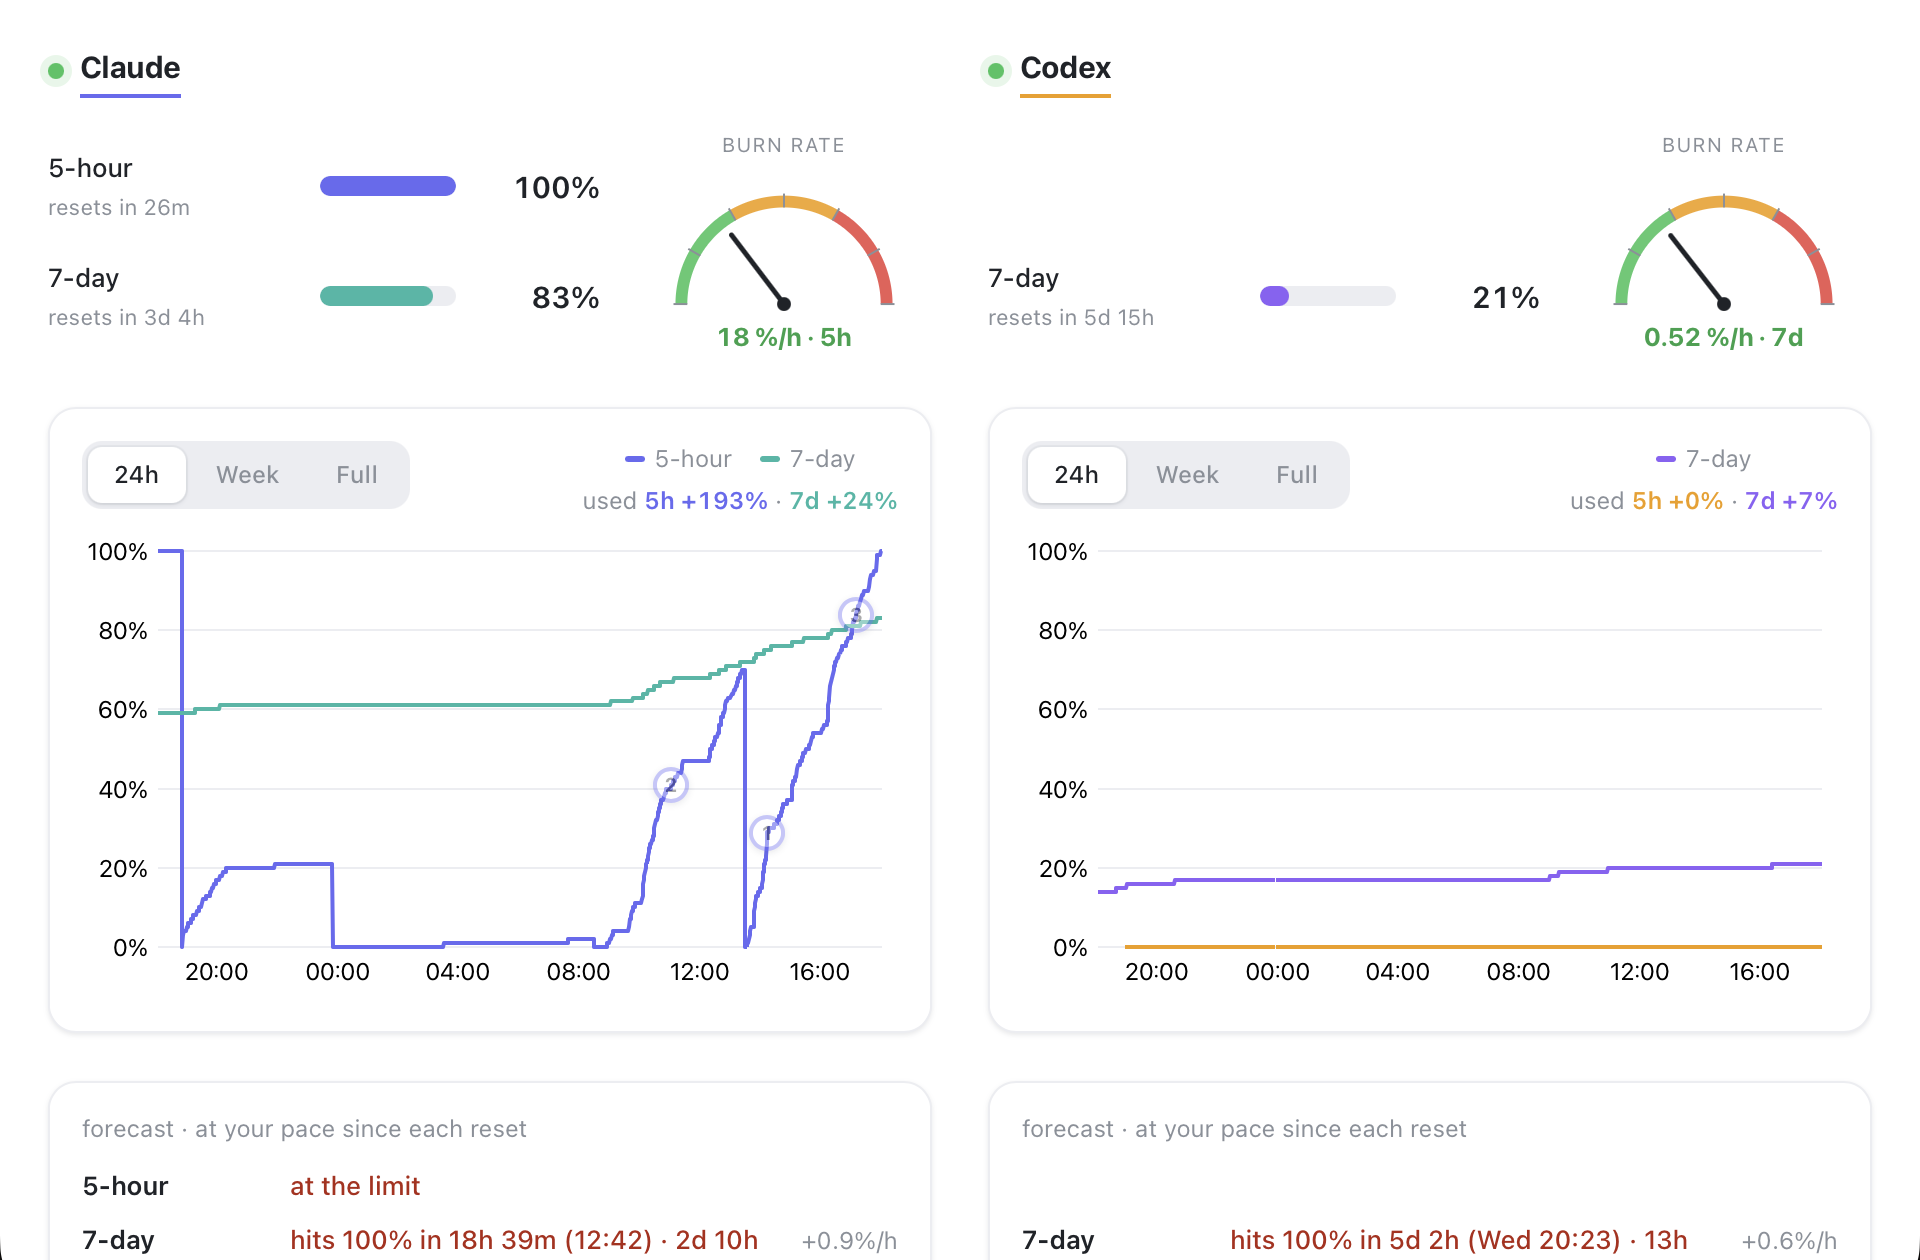
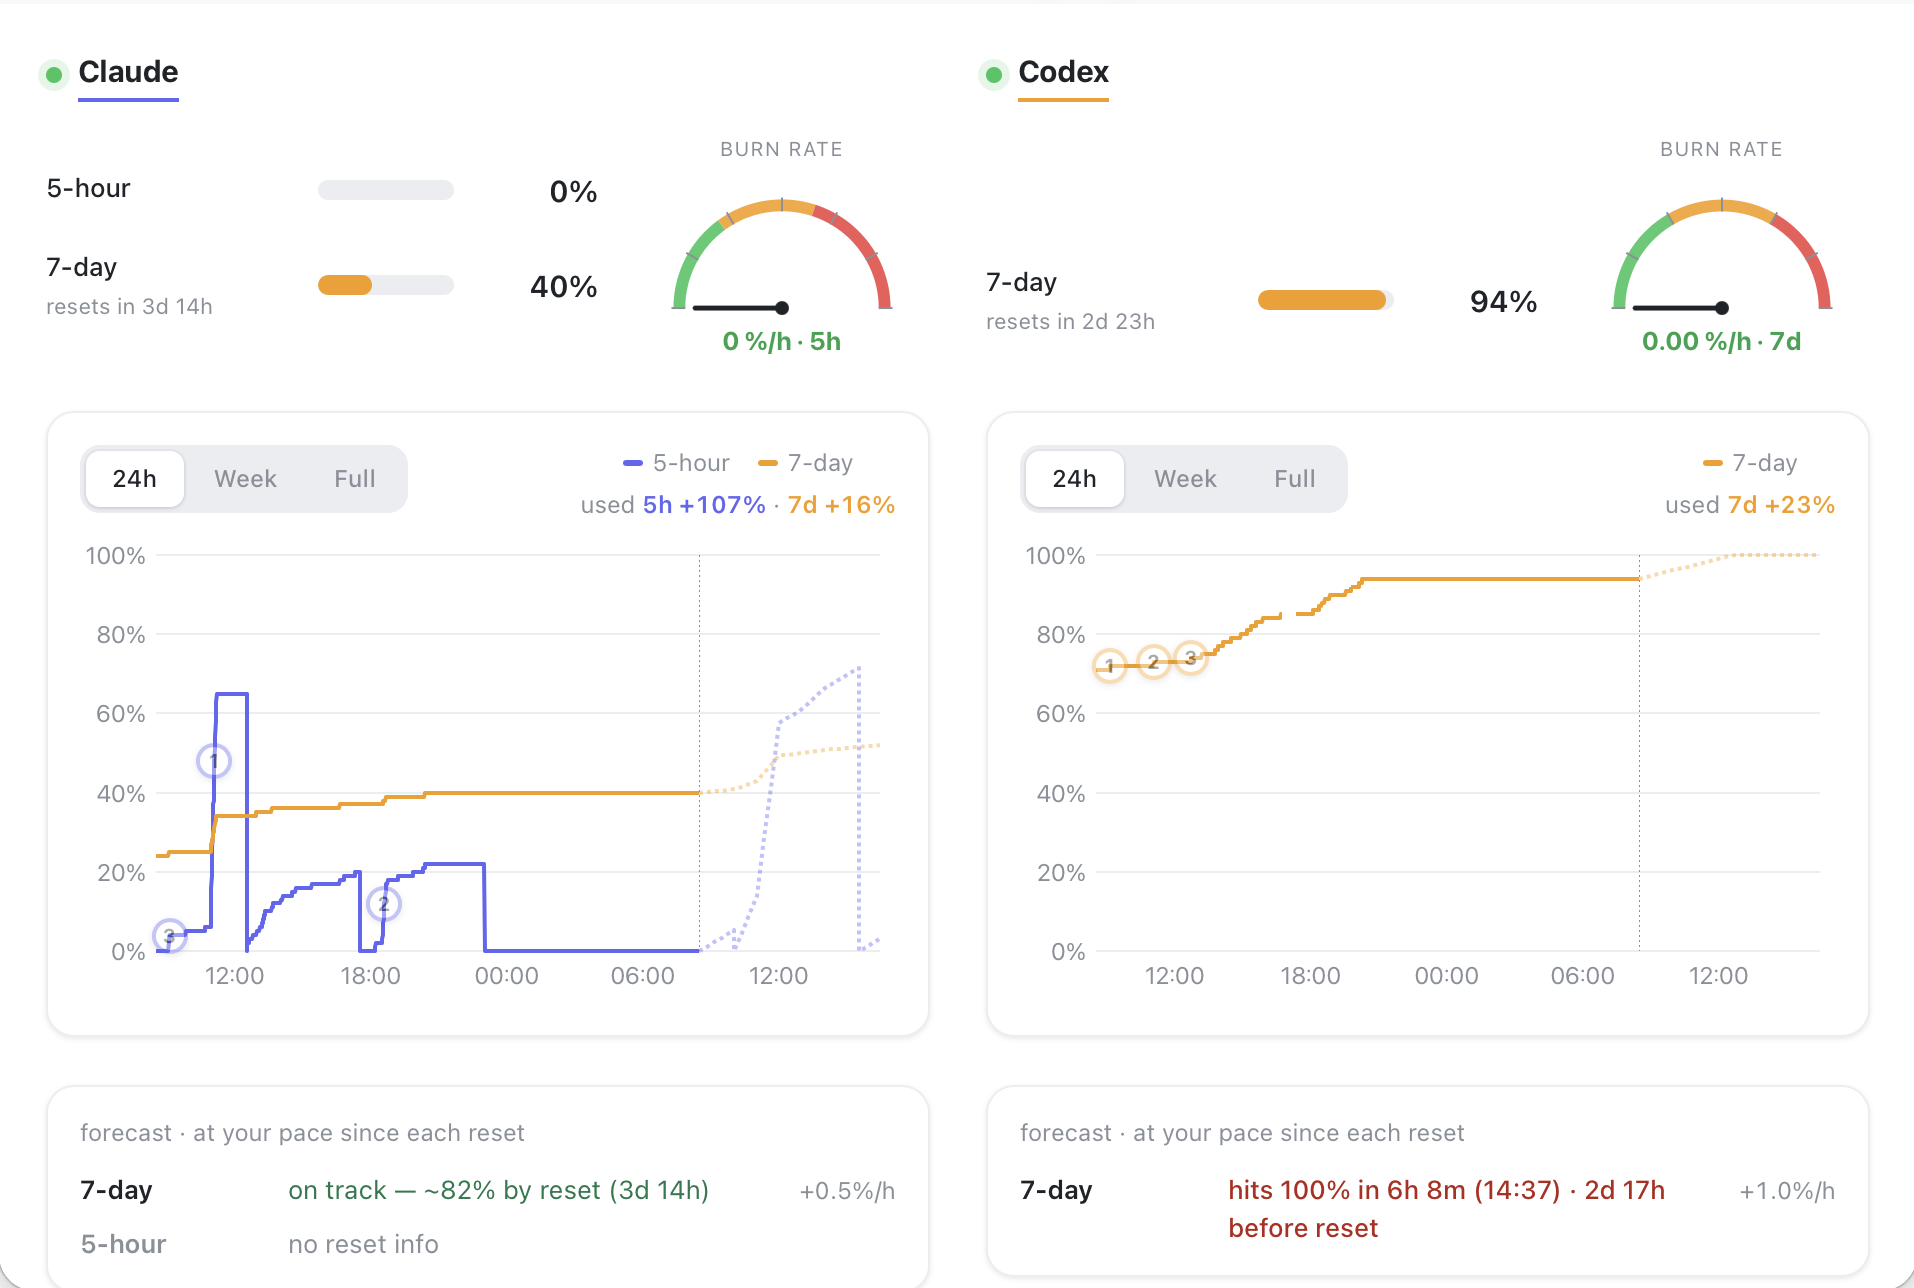
dashboard: wire authoritative resets, drop metric cards + Spark line
- Pass each series' authoritative reset (window_seconds + reset_at) into the
  chart forecast via panelResets(), so projected resets match the real cadence.
- Remove the Opus 7d / Sonnet 7d / Extra-credits (Claude) and Plan /
  Extra-credits (Codex) metric cards.
- Hide the model-specific "Spark" feature limit (usually 0%, not a real cap).
- Refresh the README dashboard screenshot.

diff --git a/static/app.js b/static/app.js
@@ -191,7 +191,7 @@ function applyRange(st) {
     while (i < ts.length && ts[i] < cutoff) i++;
     ts = ts.slice(i); a = a.slice(i); b = b.slice(i);
   }
-  st.chart.setData(withProjection(ts, a, b));
+  st.chart.setData(withProjection(ts, a, b, panelResets(st)));
 }
 
 function toSamples(ts, ys) {
@@ -204,10 +204,37 @@ function lastNonNull(arr) {
   return 0;
 }
 
+// Authoritative reset override for the predictor: { P, R } in seconds (window
+// length + a known reset instant), taken from the API's window info so the forecast
+// projects resets on the real cadence instead of guessing from noisy data drops.
+function resetOverride(iso, winSec) {
+  if (!iso || !(winSec > 0)) return null;
+  const R = new Date(iso).getTime() / 1000;
+  return Number.isFinite(R) ? { P: winSec, R } : null;
+}
+// Per-panel {a, b} reset overrides for the two charted series (a = 5-hour, b = 7-day).
+function panelResets(st) {
+  if (st === C) return {
+    a: resetOverride(C.resets.five_hour, 5 * 3600),
+    b: resetOverride(C.resets.seven_day, 7 * 86400),
+  };
+  if (st === X) {
+    const wins = (X.last && X.last.windows) || [];
+    const byLen = (target, tol) => wins.find((w) => w.window_seconds && Math.abs(w.window_seconds - target) <= tol);
+    const w5 = byLen(18000, 900), w7 = byLen(604800, 7200);
+    return {
+      a: w5 && resetOverride(w5.reset_at, w5.window_seconds),
+      b: w7 && resetOverride(w7.reset_at, w7.window_seconds),
+    };
+  }
+  return { a: null, b: null };
+}
+
 // Expand [ts, a, b] into uPlot's 5-row data with a forecast filling the rightmost
 // 25%: [ts, a, b, aProj, bProj]. Real lines go null in the future; projection lines
 // are null across history except an anchor at the last real point so they connect.
-function withProjection(ts, a, b) {
+// `rst` carries authoritative {a, b} reset overrides (see panelResets).
+function withProjection(ts, a, b, rst) {
   const n = ts.length;
   const noProj = [ts.slice(), a.slice(), b.slice(), a.map(() => null), b.map(() => null)];
   if (n < 2) return noProj;
@@ -216,14 +243,14 @@ function withProjection(ts, a, b) {
   if (!(horizon > 0)) return noProj;
   const step = Math.max(horizon / 24, 60);
   const P = Predictors[forecastModel] || Predictors.linear;
-  const projA = P.predict(toSamples(ts, a), { now, horizon, step }).points;
+  const projA = P.predict(toSamples(ts, a), { now, horizon, step, reset: rst && rst.a }).points;
   // Derive the 7-day (b) from the 5-hour (a) projection when they're linked by a
   // stable consumption ratio; otherwise forecast it independently (e.g. Codex, whose
   // 5-hour "Spark" window sits at ~0 → no ratio → falls back here).
   const ratio = consumptionRatio(a, b);
   const projB = ratio != null
     ? deriveSeries(projA, lastNonNull(b), ratio, 100)
-    : P.predict(toSamples(ts, b), { now, horizon, step }).points;
+    : P.predict(toSamples(ts, b), { now, horizon, step, reset: rst && rst.b }).points;
   // The two series can project on different time grids (e.g. one line hits resets
   // and the other doesn't), so build a shared future axis from both and resample
   // each onto it — otherwise the sparser series' projection ends up short and cut off.
@@ -435,9 +462,6 @@ function renderClaude(s) {
   $("sdFill").style.width = (s.sd ?? 0) + "%";
   $("fhPct").textContent = fmtPct(s.fh);
   $("sdPct").textContent = fmtPct(s.sd);
-  $("mOpus").textContent = fmtPct(s.so);
-  $("mSonnet").textContent = fmtPct(s.sn);
-  $("mCredits").textContent = s.credits == null ? "–" : "$" + Number(s.credits).toFixed(2);
   renderScoped(s.limits);
   renderClaudeResets();
   renderClaudeForecast();
@@ -515,11 +539,8 @@ function renderCodex(s) {
     .filter((slot) => wins.some((w) => w.label === slot.label))
     .map((slot) => `<span class="lg"><i class="swatch ${slot.cls}"></i>${slot.label}</span>`).join("");
 
-  $("cxPlan").textContent = s.plan_type || "–";
-  const cr = s.credits || {};
-  $("cxCredits").textContent = cr.unlimited ? "∞" : (cr.balance == null ? "–" : "$" + Number(cr.balance).toFixed(2));
-
-  const add = (s.additional || []).filter((a) => a.used_percent != null);
+  // Hide the model-specific "Spark" feature limit — it's usually 0% and not a real cap.
+  const add = (s.additional || []).filter((a) => a.used_percent != null && !/spark/i.test(a.label || ""));
   $("cxScoped").innerHTML = add.map((a) =>
     `<div class="row"><span>${a.label}</span><b>${Math.round(a.used_percent)}%</b></div>`).join("");
 

diff --git a/static/index.html b/static/index.html
@@ -70,12 +70,6 @@
           <div id="prog" class="prog"><div class="prog-row muted"><span class="prog-msg">gathering data…</span></div></div>
         </section>
 
-        <section class="cards">
-          <div class="card metric"><div class="k">Opus (7d)</div><div id="mOpus" class="v">–</div></div>
-          <div class="card metric"><div class="k">Sonnet (7d)</div><div id="mSonnet" class="v">–</div></div>
-          <div class="card metric"><div class="k">Extra credits used</div><div id="mCredits" class="v">–</div></div>
-        </section>
-
         <section id="scoped" class="scoped"></section>
       </section>
 
@@ -110,11 +104,6 @@
         <section class="card prog-card">
           <div class="prog-head"><span class="muted">forecast · at your pace since each reset</span></div>
           <div id="cxProg" class="prog"><div class="prog-row muted"><span class="prog-msg">gathering data…</span></div></div>
-        </section>
-
-        <section class="cards two">
-          <div class="card metric"><div class="k">Plan</div><div id="cxPlan" class="v">–</div></div>
-          <div class="card metric"><div class="k">Extra credits</div><div id="cxCredits" class="v">–</div></div>
         </section>
 
         <section id="cxScoped" class="scoped"></section>
